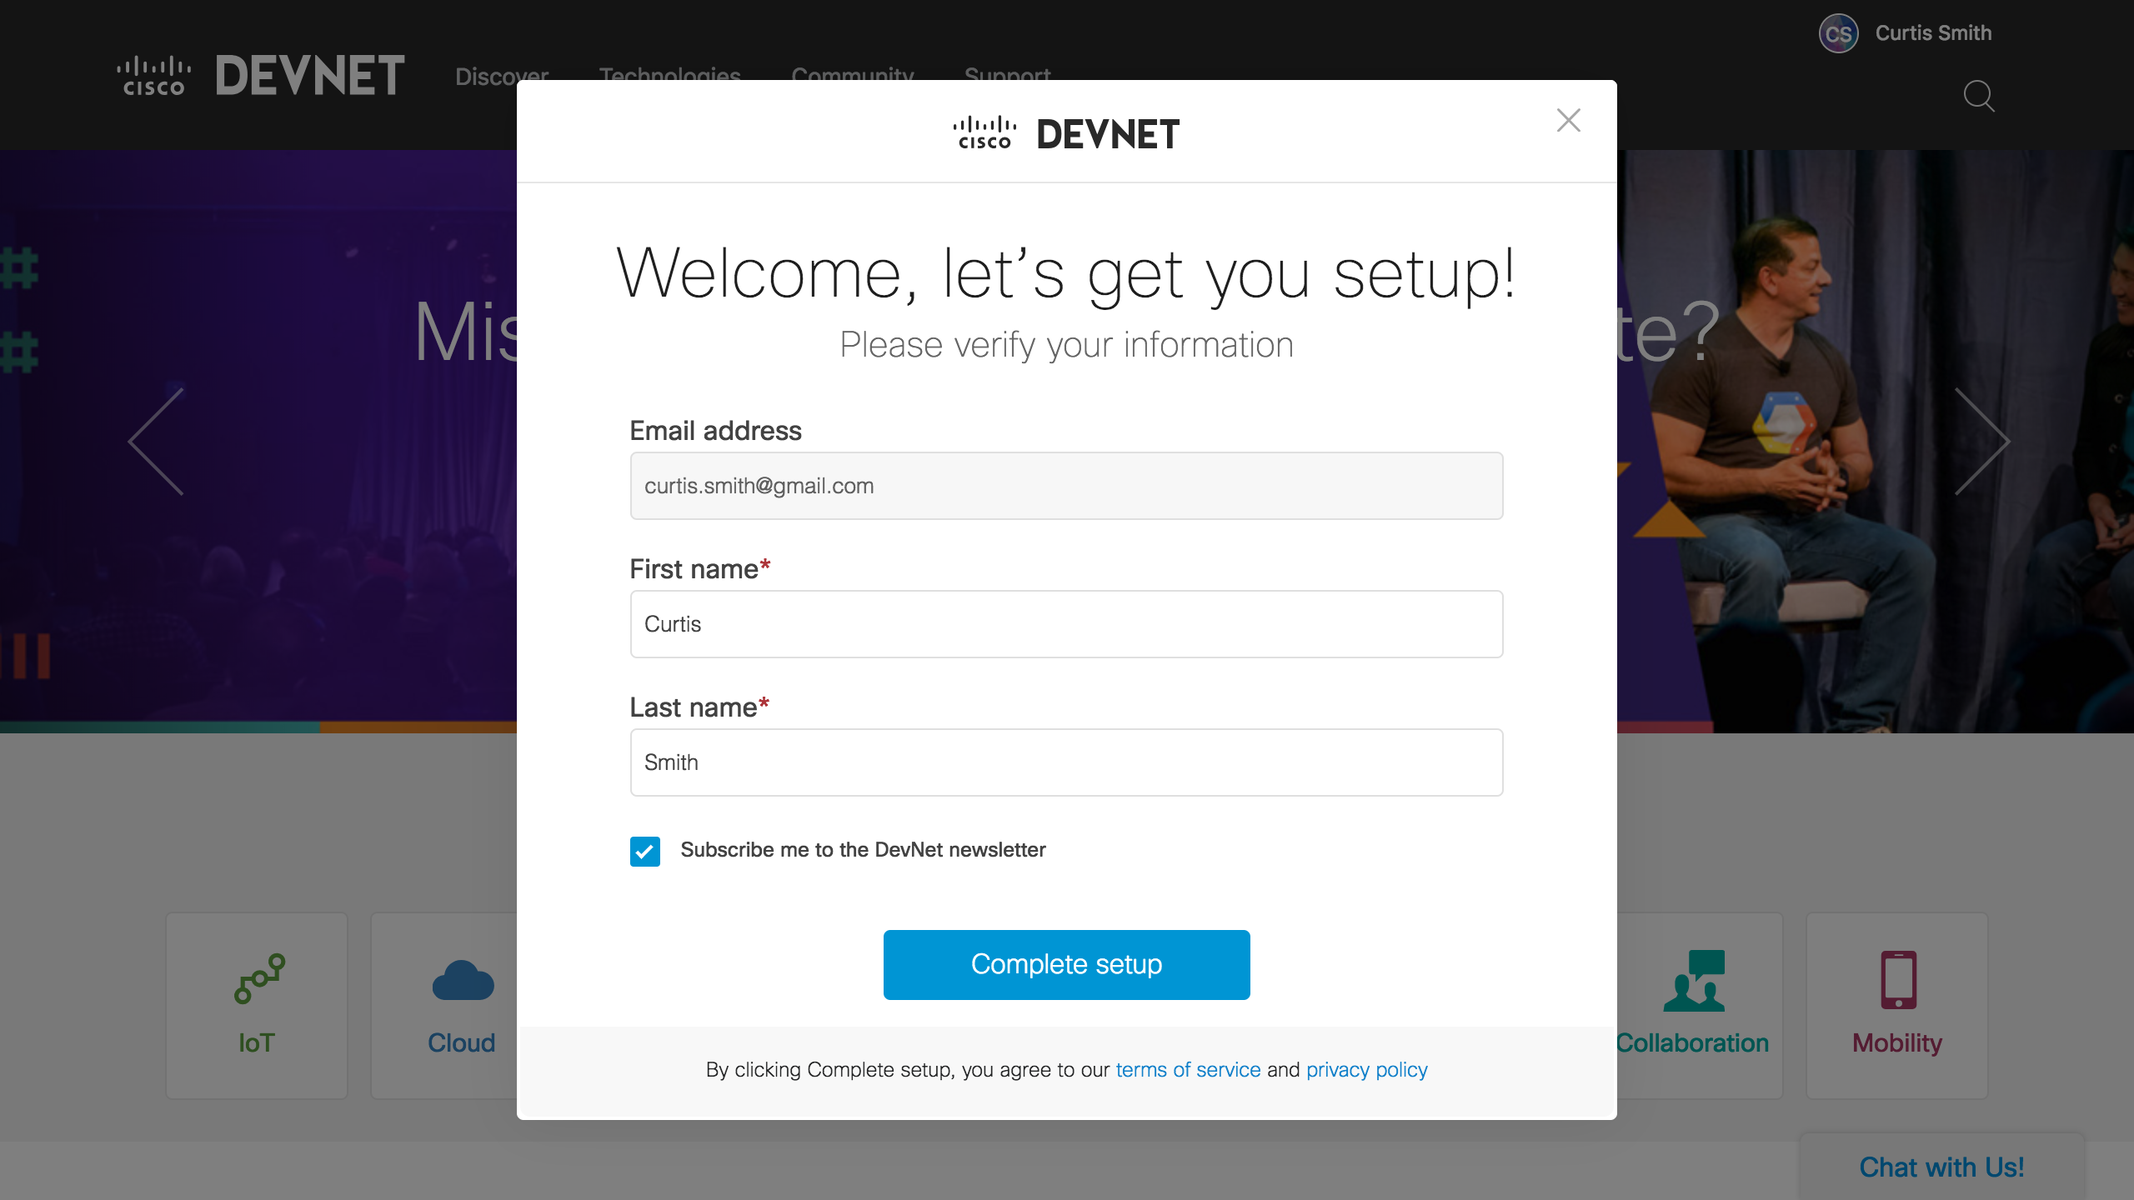
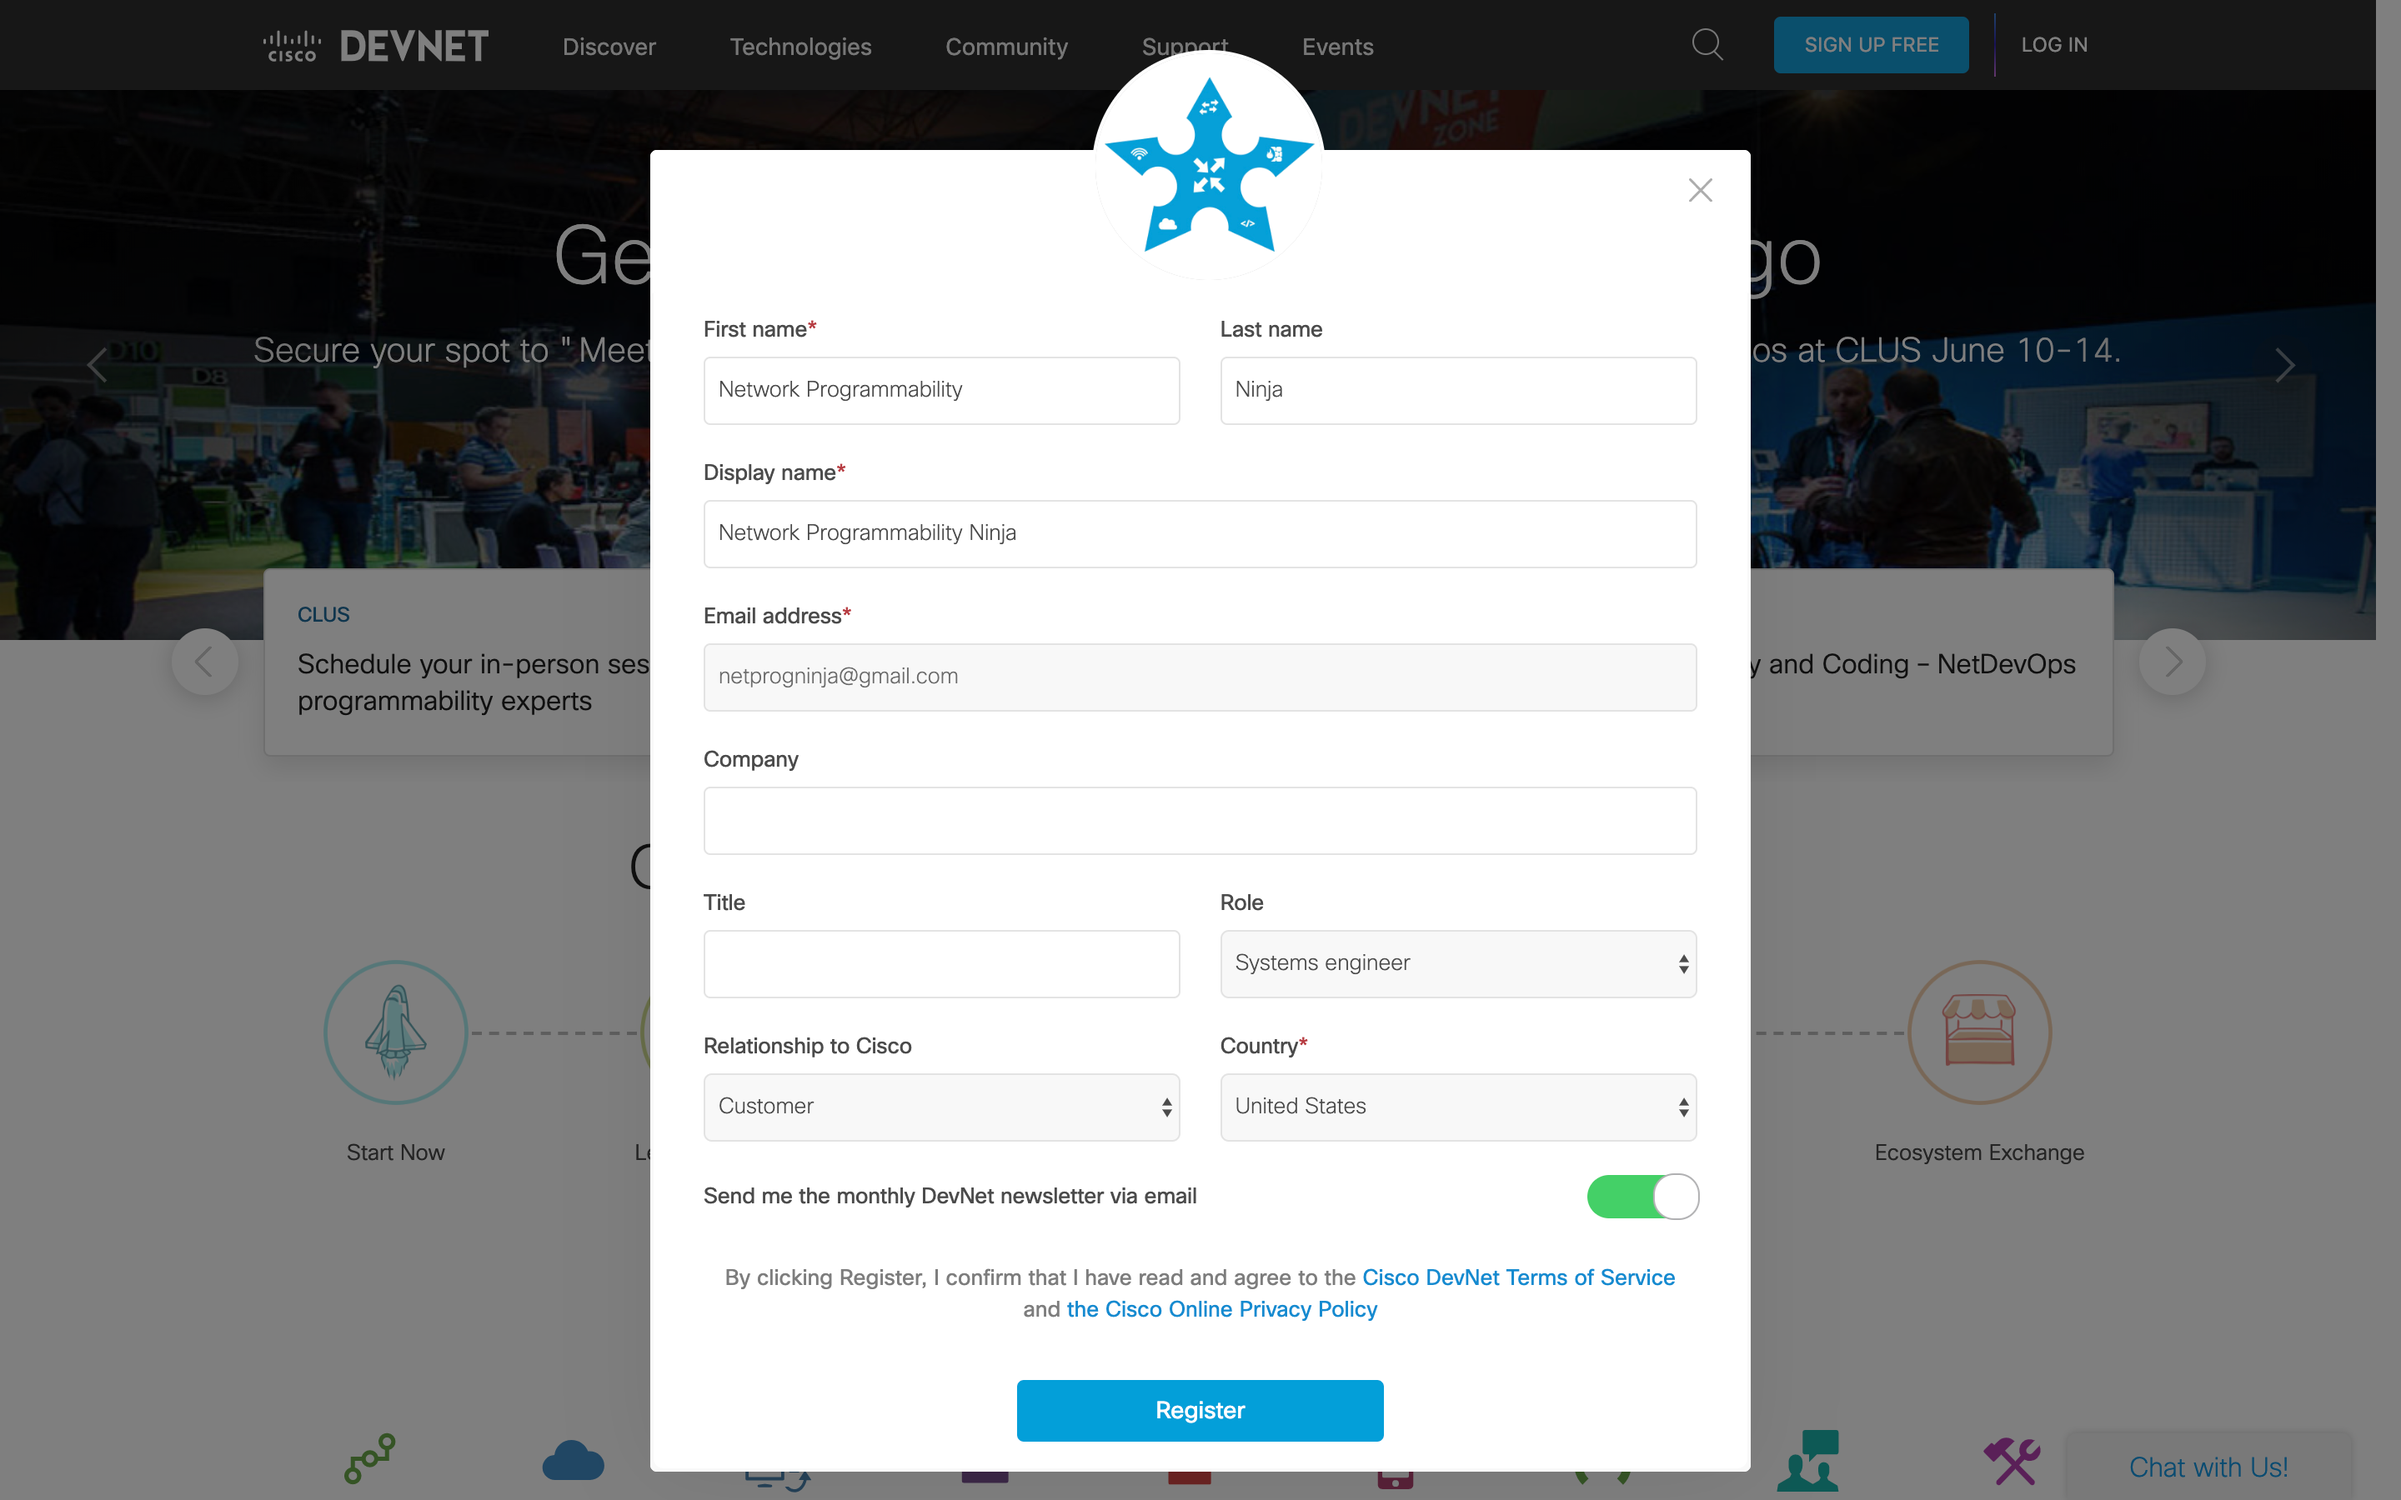
Refreshing content

diff --git a/guide/LTRPRG-1100-01-Dojo.md b/guide/LTRPRG-1100-01-Dojo.md
@@ -7,17 +7,18 @@ Navigation :: [Previous Page](LTRPRG-1100-00-Intro.md) :: [Table of Contents](LT
 ## What is Network Programmability
 
 Even the most storied Ninja had to receive the training necessary to practice the methods and live the life to be 
-successful.  Thank you for taking the first step with this lab at Cisco Live!
+successful.  Thank you for taking the first step with this lab at Cisco Live!  But first, let's explore what it is 
+we're here for.
 
 ### Defining Network Programmability
 
 Think about your own environment.  How do you manage your networks and systems?  What are the most common methods or 
-tools for deploying and managing your production environment?  Text editors; tens, hundreds, maybe 
-thousands of documents, drawings, and spreadsheets; CLI commands; copy-and-paste; free or commercial applications?  In
-recent years, there has been an incredible increase in the number of devices on your networks; number of applications
-stressing your networks; rate of change in consumer devices and applications; and pressure on network architects, 
+tools for deploying and managing your production environment?  Text editors; tens, hundreds, maybe thousands of 
+documents, drawings, and spreadsheets; CLI commands; copy-and-paste; free or commercial applications?  In recent 
+years, there has been an incredible increase in the number of devices on our networks; number of applications
+stressing our networks; rate of change in consumer devices and applications; and pressure on network architects, 
 engineers, and administrators or operators to support these demands and changes.  We tend to struggle with keeping up
-with demand and make mistakes.
+with demand and make mistakes.  We need to be more efficient and work smarter.
 
 So-called DevOps (a compound of "Development" and "Operations") has become a popular practice of unifying development
 and operations into a continuous flow of automation and monitoring throughout the stages of development, 
@@ -27,8 +28,8 @@ aligned with business priorities.  DevOps was first adopted in application and s
 now DevOps is turning to the network team looking for integration with the underlying network for performance 
 and segmentation.
 
-The "Cloud" isn't just a destination; it is becoming an approach to delivering IT services efficiently and 
-effectively.  You should start focusing on delivering solutions rather than individual devices and feature 
+The "Cloud" isn't just a destination; it is becoming an approach to delivering IT services efficiently, effectively, 
+and quickly.  You should start focusing on delivering solutions rather than individual devices and features 
 configuration.  Products must adapt to facilitate automation and efficient integration rather than focusing purely on 
 "nerd knobs".
 
@@ -39,14 +40,14 @@ Network programmability is a set of tools and best practices to deploy, configur
 devices.
 
 Vendors, including Cisco, recognizes this, and the industry is delivering solutions based on application programming 
-interfaces (APIs), software development kits (SDKs), and - this is particularly true of Cisco - resources, sample 
-code, training, and a community to help customers learn and put into practice new skills to apply network
+interfaces (APIs), software development kits (SDKs), and, this is particularly true of Cisco, new resources to bear, 
+sample code, training, and a community to help customers learn and put into practice new skills to apply network
 programmability tools and concepts to your networks.
 
 ### Getting Started with Network Programmability
 
 How do you get started?  Well, this very lab is a great first step!  After completing this lab, we expect you to be 
-armed with the Ninja training necessary to go and practice the fine art of network programmability in your job.
+armed with the Ninja training necessary to go and start to practice the fine art of network programmability in your job.
 
 ---
 

diff --git a/guide/LTRPRG-1100-01a2-DevNet-Ex1.md b/guide/LTRPRG-1100-01a2-DevNet-Ex1.md
@@ -15,7 +15,7 @@ The objectives for this exercise are to:
 The first step in your network programmability training is joining [Cisco DevNet](https://developer.cisco.com/).  Let's 
 create your DevNet account, if you don't already have one.
 
-1. Navigate to [DevNet](https://developer.cisco.com): `https://developer.cisco.com/`.
+1. Navigate to [DevNet](https://developer.cisco.com) at `https://developer.cisco.com/`.
     
     ![DevNet Website](assets/DevNet-01.png)
 
@@ -23,18 +23,17 @@ create your DevNet account, if you don't already have one.
     
     ![DevNet Login](assets/DevNet-02.png)
     
-    You are given the choice of several single sign-on options.  We recommend using your Cisco ID, but you may 
-    choose whichever you feel is appropriate.
+    You are given the choice of several single sign-on options.  We recommend choosing to `Login with a Cisco ID`, but 
+    you may choose whichever you feel is appropriate.
 
-3. Once you've logged in, complete your DevNet account profile if this is your first time logging in and click 
-the `Complete setup` button.
+3. Once you've logged in, complete your DevNet account profile if this is your first time logging in.
     
     ![DevNet Profile 1](assets/DevNet-03.png)
     
-4. Congratulations, you've successfully joined Cisco DevNet!  Click the `Take me to my dashboard` button and you 
-are ready to explore DevNet.
-        
-    ![DevNet Profile 2](assets/DevNet-04.png)
+     Click the `Register` button.
+    
+Congratulations, you've successfully joined Cisco DevNet!  Let's explore Cisco's network programmability ninja dojo a
+bit further.
 
 ---
 

diff --git a/guide/LTRPRG-1100-01a1-DevNet.md b/guide/LTRPRG-1100-01a1-DevNet.md
@@ -43,6 +43,10 @@ events.
 Join communities of interest and participate in on-going discussions around technologies; participate in trending 
 forums on various Cisco technologies; get your questions answered; meet and greet at events around the world.
 
+### Getting Started with Cisco DevNet
+
+Enter the network programmability ninja dojo.  Let's get started and explore Cisco DevNet next.
+
 ---
 
 Navigation :: [Previous Page](LTRPRG-1100-01-Dojo.md) :: [Table of Contents](LTRPRG-1100-00-Intro.md#table-of-contents) :: [Next Page](LTRPRG-1100-01a2-DevNet-Ex1.md)
